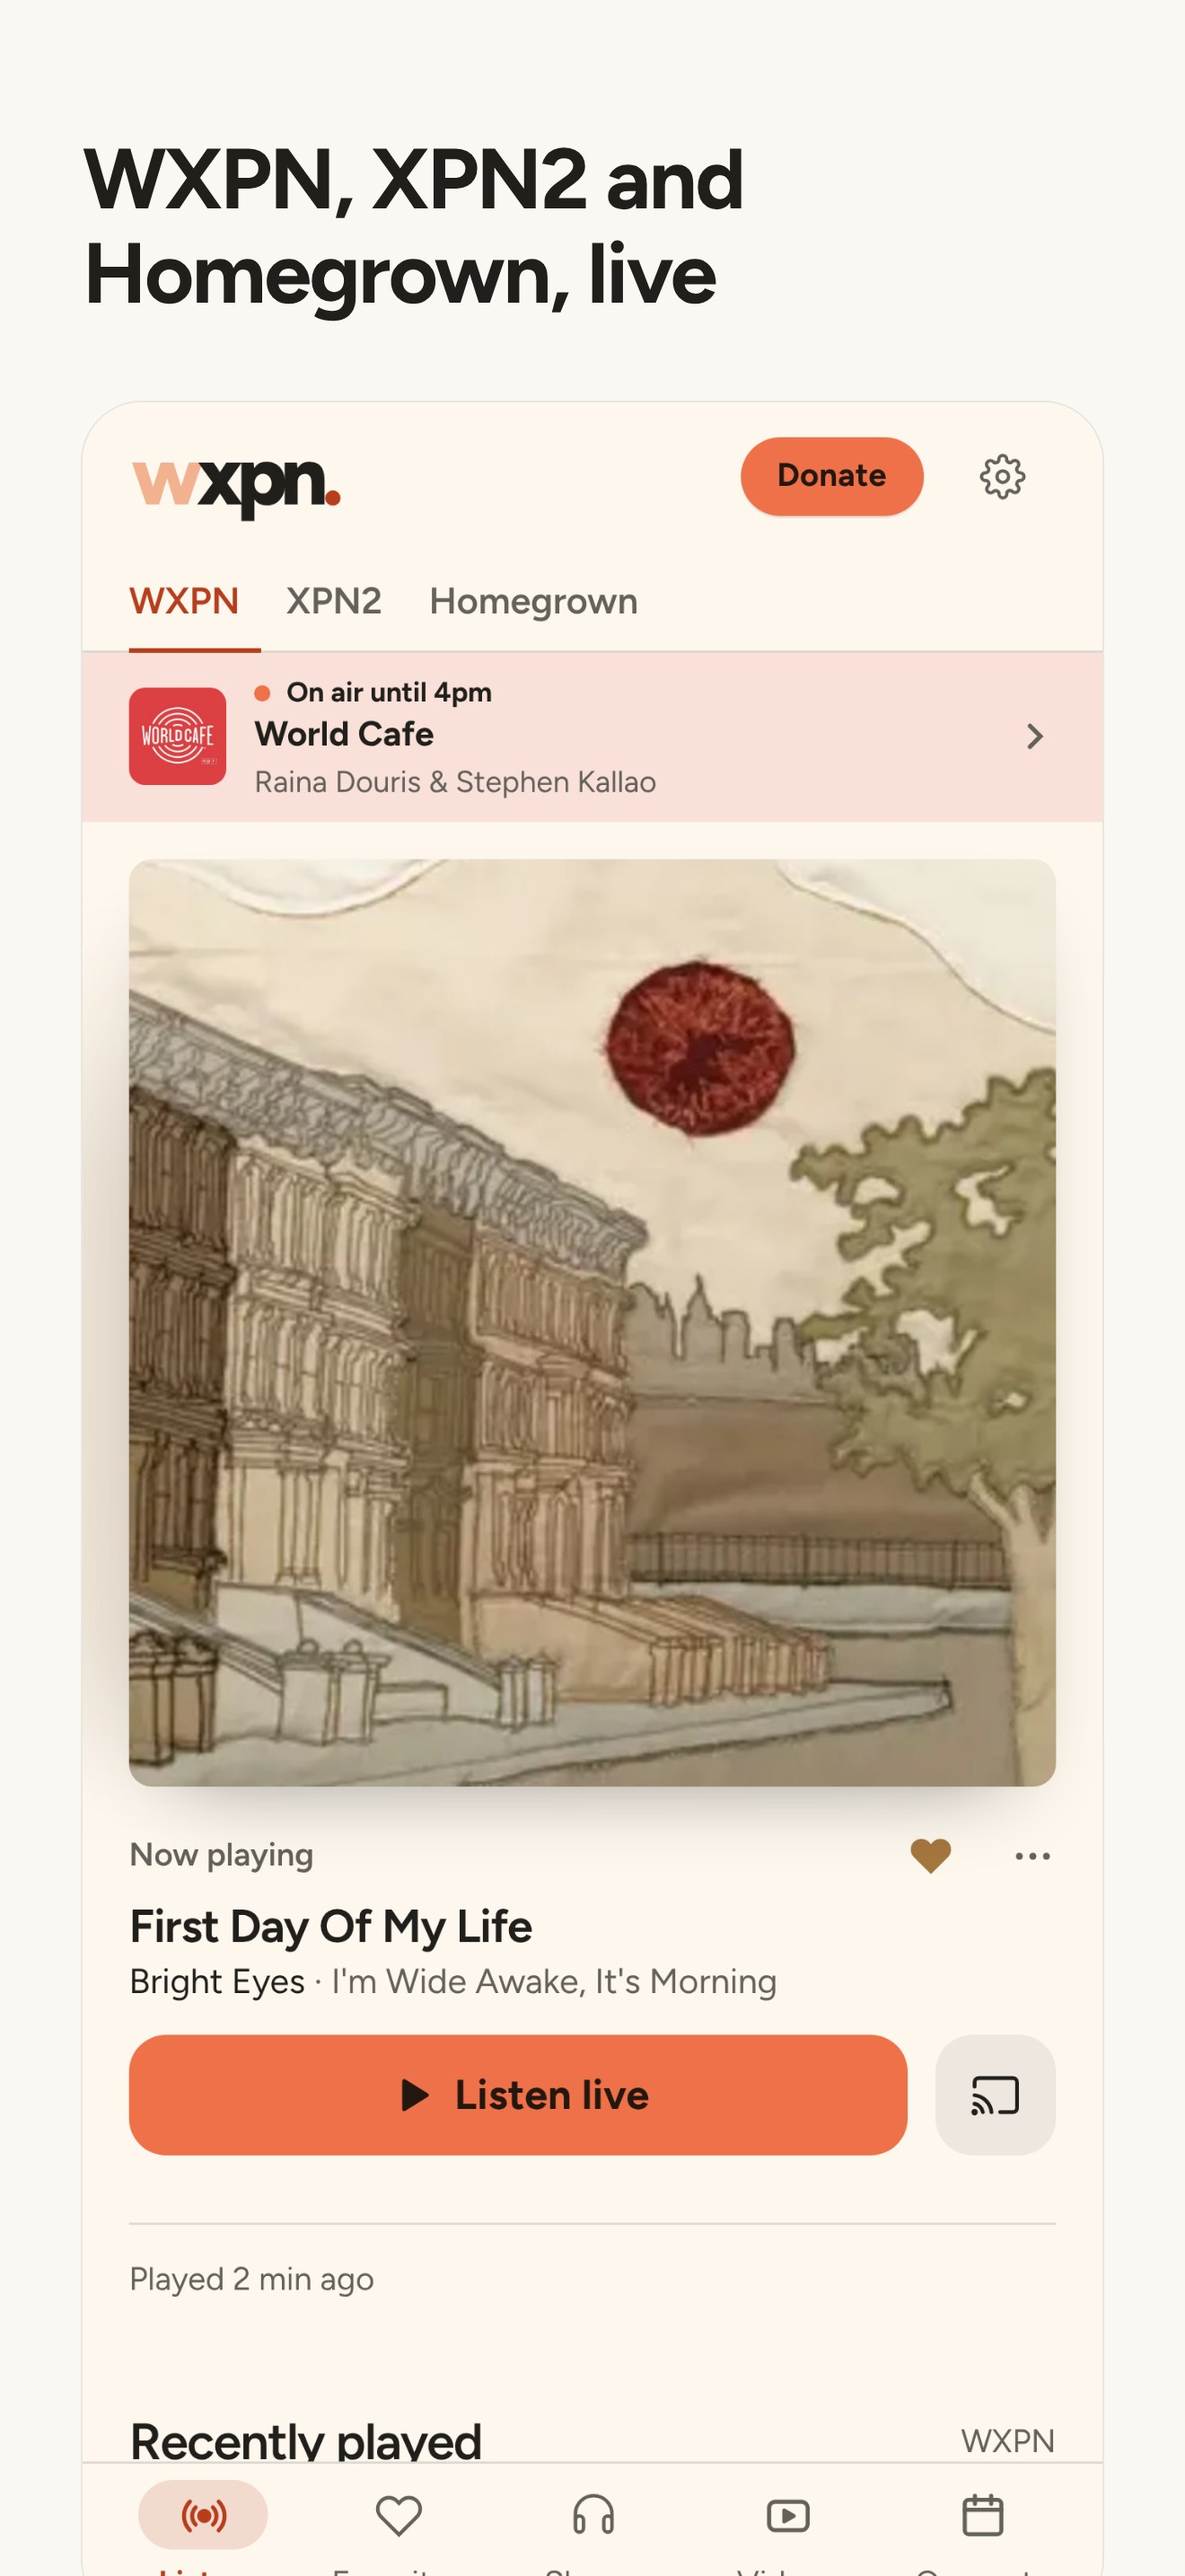
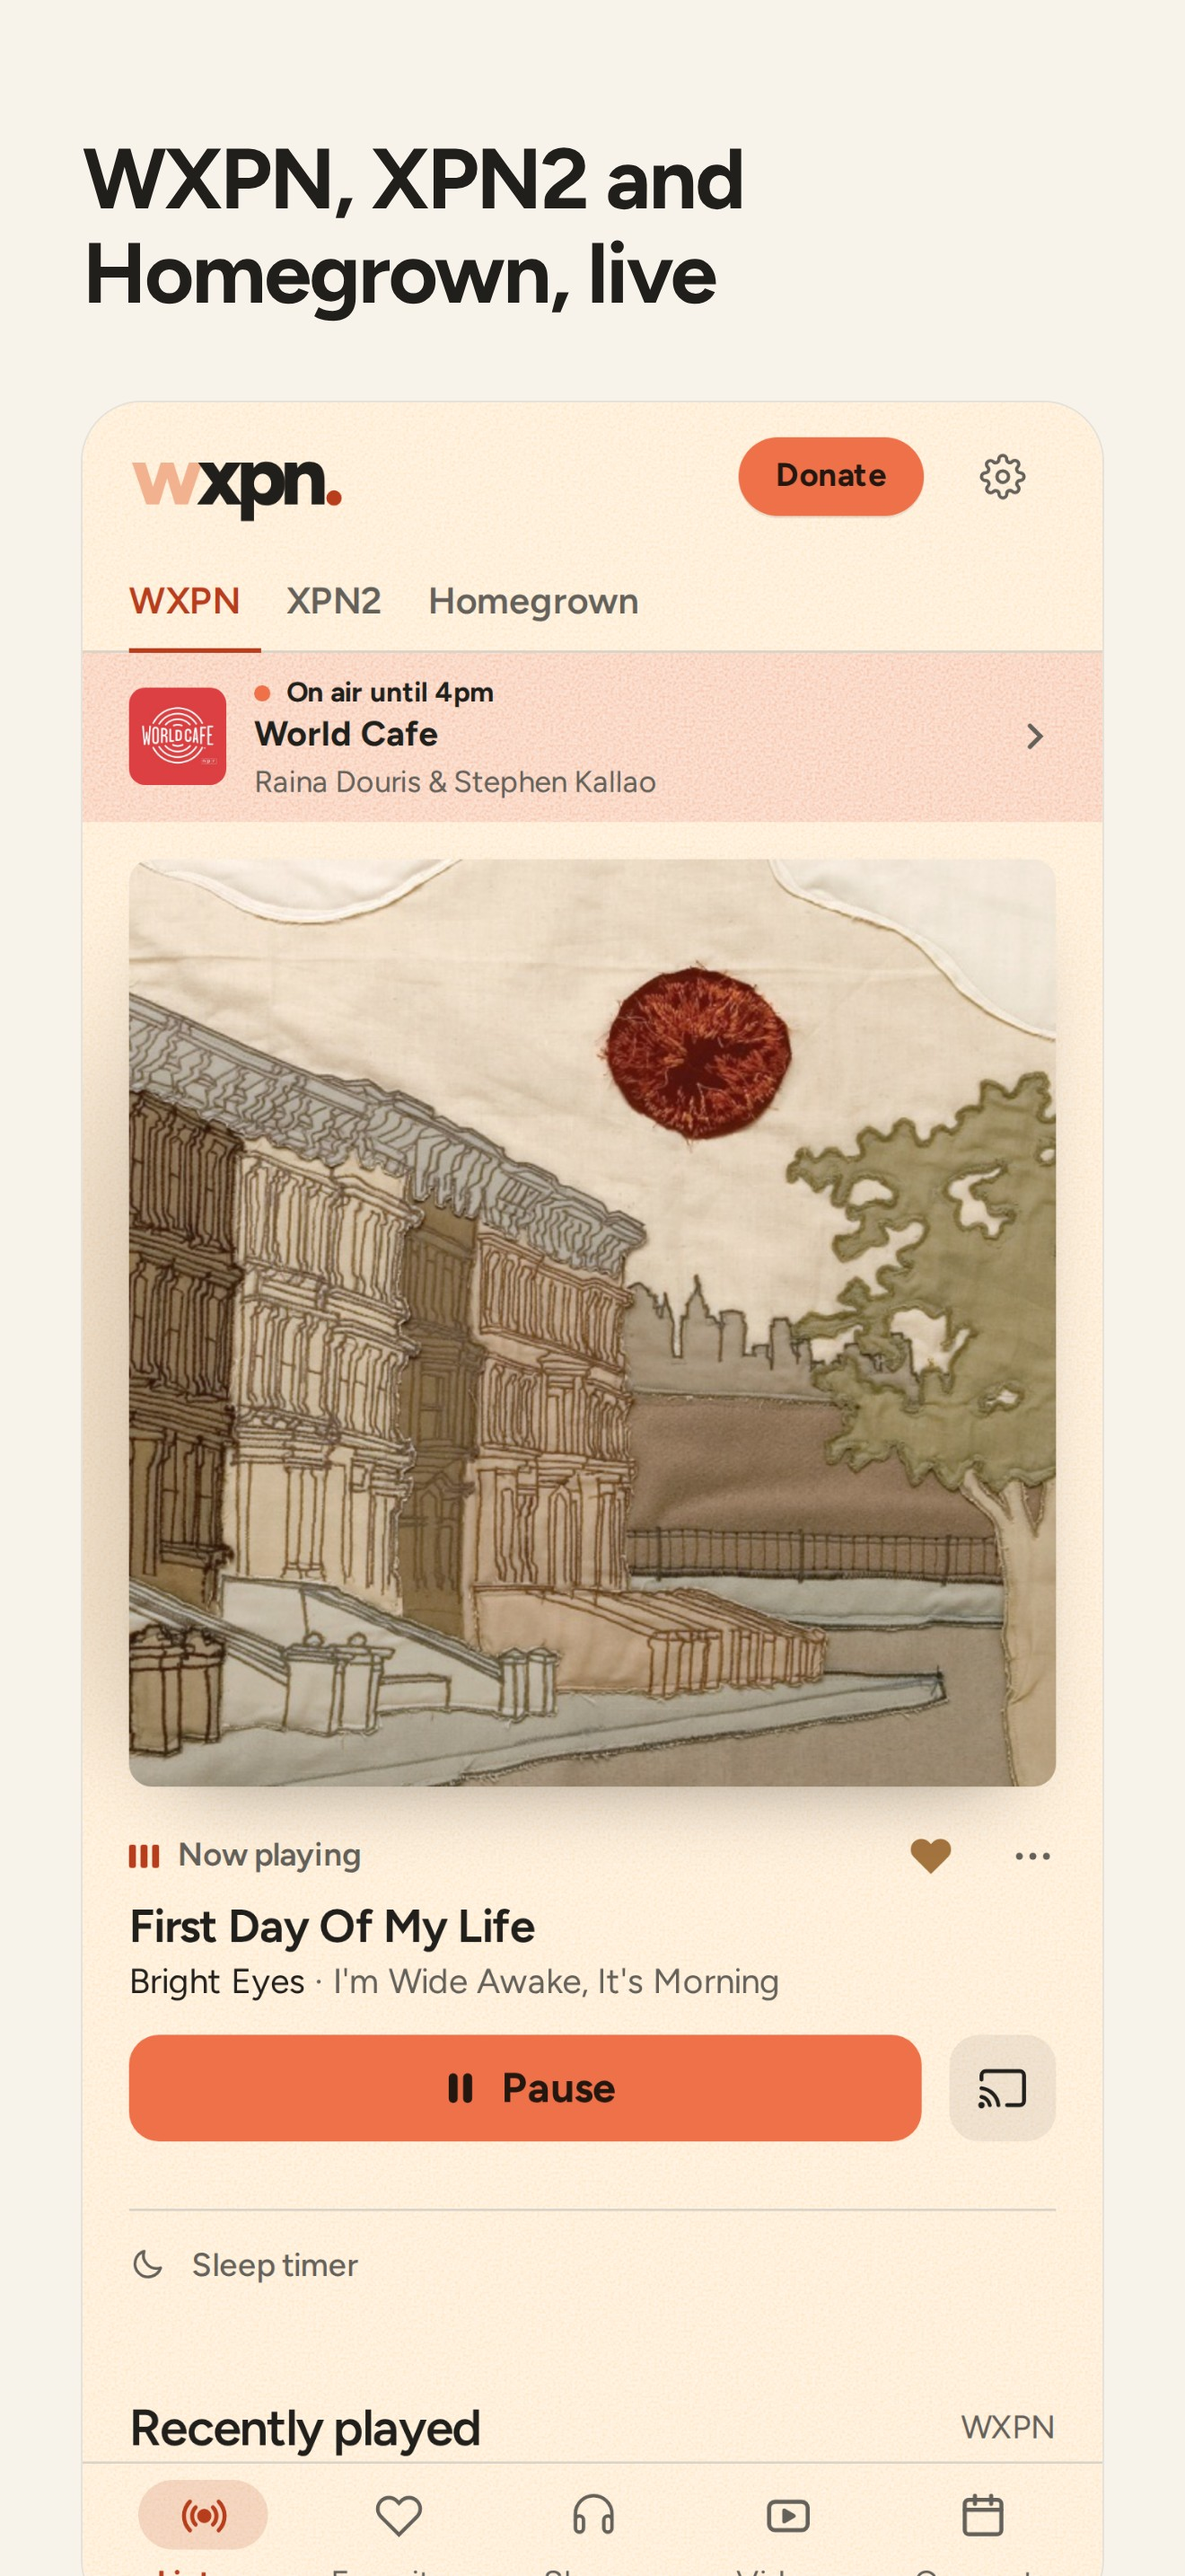
Ready for the stores: Android playback and Back, privacy answers, new shots
- Android: declare FOREGROUND_SERVICE_MEDIA_PLAYBACK. The media session's
  service starts as media playback, which from Android 14 needs it, or the
  service throws and the station stops in the background.
- Android: the Back button closes an open menu or sheet first, steps back
  through screens, and at the start puts the app in the background still
  playing, rather than closing it (which stopped the station).
- Store screenshots retaken with the current design (iPhone 6.9", iPad 13",
  Android), from the capture tool's new store shots.
- store/listing.md: App Privacy and Data safety answers worked out from the
  code, and the Play Console declarations (media playback foreground
  service, exact alarms).
- The capture tool's video list shot follows the single feed.

Claude-Session: https://claude.ai/code/session_01D9nLoWfAPWS4Bpww4KtqZg

diff --git a/back-button.js b/back-button.js
@@ -1,0 +1,44 @@
+// Android's Back button. Capacitor's own handling steps back through the
+// web view's history and then closes the app's activity, which takes the
+// web view, and the station playing in it, down with it. Instead, as music
+// apps do: Back closes a menu or sheet that is open, then a screen opened
+// over another (a show, a video), then steps back through screens, and at
+// the start puts the app in the background, still playing.
+import { Capacitor } from "@capacitor/core";
+import { App } from "@capacitor/app";
+
+// What Back does now. Pure, so it can be tested.
+export function backAction({ popoverOpen, dialogOpen, canGoBack }) {
+  if (popoverOpen) return "close-menu";
+  if (dialogOpen) return "close-sheet";
+  return canGoBack ? "back" : "background";
+}
+
+const openPopover = () => {
+  try {
+    return document.querySelector(":popover-open");
+  } catch {
+    return null; // a web view without popovers: none can be open
+  }
+};
+
+export function startBackButton() {
+  if (Capacitor.getPlatform() !== "android") return;
+  App.addListener("backButton", ({ canGoBack }) => {
+    const popover = openPopover();
+    const dialogs = document.querySelectorAll("dialog[open]");
+    const dialog = dialogs[dialogs.length - 1];
+    const action = backAction({
+      popoverOpen: Boolean(popover),
+      dialogOpen: Boolean(dialog),
+      canGoBack,
+    });
+    if (action === "close-menu") popover.hidePopover();
+    // As Escape would: each sheet decides how it closes (a show's goes back
+    // in history; one that can't be dismissed stays).
+    else if (action === "close-sheet")
+      dialog.dispatchEvent(new Event("cancel", { cancelable: true }));
+    else if (action === "back") window.history.back();
+    else App.minimizeApp().catch(() => {});
+  }).catch(() => {}); // a build without the native side
+}

diff --git a/main.jsx b/main.jsx
@@ -10,6 +10,7 @@ import "./global.css";
 import { reportError, startAnalytics, track } from "./analytics.js";
 import { startListeningMeter } from "./listening.js";
 import { startDeepLinks } from "./deep-links.js";
+import { startBackButton } from "./back-button.js";
 import { startReviewPrompts } from "./review.js";
 import { getSavedSongs, subscribeFavorites } from "./favorites.js";
 import { episodeControls, getEpisodeSnapshot, subscribeEpisode } from "./episode-player.js";
@@ -54,6 +55,7 @@ if (devicePreview) {
   startAnalytics();
   followTextSize();
   startDeepLinks();
+  startBackButton();
   // A store rating is asked for after a heart, once the listener knows the app.
   let songs = getSavedSongs().length;
   const reviews = startReviewPrompts({

diff --git a/store/listing.md b/store/listing.md
@@ -51,14 +51,24 @@ WXPN is a public media service of the University of Pennsylvania, supported by i
 
 **Age rating:** no objectionable content. The browser view only opens xpn.org, ticket and streaming-service pages from the app's own links; if App Review counts that as unrestricted web access, the rating becomes 17+, so answer that question carefully.
 
-**App Privacy** (with usage reporting and push on):
+**App Privacy** (App Store Connect › App Privacy). Worked out from what the code sends (`analytics.js`, `push.js`, `playlist-sync.js`, the video players); have it checked against the privacy policy before submitting.
 
-- Data used to track you: none.
-- Data not linked to you:
-  - Usage Data, Product Interaction: analytics.
-  - Diagnostics, Crash Data and Other Diagnostic Data: app functionality and analytics.
-  - Identifiers, Device ID (the push token): app functionality, only with push set up.
-- Favorites, settings and listening history stay on the phone.
+- **Do you or your partners collect data?** Yes, with usage reporting on (it is by default; Settings › Privacy turns it off).
+- **Tracking:** No. No advertising ids, no Google signals or ad personalization, no data broker, no linking with other companies' data.
+- **Data collected, none of it linked to the user's identity:**
+
+| Apple's data type                   | What it is in the app                                                                                                   | Purposes                     |
+| ----------------------------------- | ----------------------------------------------------------------------------------------------------------------------- | ---------------------------- |
+| Usage Data › Product Interaction    | Screens opened, plays, hearts, shares, notification switches (GA4 events)                                               | Analytics                    |
+| Diagnostics › Crash Data            | Uncaught errors, as an anonymous line                                                                                   | App Functionality, Analytics |
+| Diagnostics › Other Diagnostic Data | Caught errors (a screen that couldn't load)                                                                             | App Functionality, Analytics |
+| Location › Coarse Location          | Google Analytics works out a country and city from the connection's address; the app never asks for location            | Analytics                    |
+| Identifiers › Device ID             | Only once push is set up (`VITE_PUSH_REGISTER_URL`): the phone's push token, to send live video and drive notifications | App Functionality            |
+
+- **Not collected** (stays on the phone, or goes only where the listener sends it): favorites, saved episodes and places, the alarm, reminders and settings; the Spotify or Apple Music sign-in and the songs added to the listener's own playlist (sent from the phone straight to that service, at the listener's request, never to WXPN); calendar events (written by the system's own New Event sheet).
+- **Embedded players:** World Cafe and WXPN videos play in Brightcove's player (NPR's Music Video Network account), which counts plays in its own analytics; live videos play in YouTube's privacy-enhanced (nocookie) player. Those are their services, under their policies; the privacy policy should name them.
+- **Required-reason APIs:** none in the app or its plugins (Capacitor's own privacy manifest declares none), so no app privacy manifest entries are needed today. Add one if a native SDK (Crashlytics, Firebase Messaging) goes in later.
+- **Encryption:** `ITSAppUsesNonExemptEncryption` is false in Info.plist (HTTPS only), so no export compliance questions per build.
 
 ## Google Play
 
@@ -66,14 +76,23 @@ WXPN is a public media service of the University of Pennsylvania, supported by i
 
 **Full description:** as the App Store description.
 
-**Data safety:**
+**Data safety** (Play Console › App content › Data safety), from the same facts:
 
-- Collected:
-  - App activity (app interactions): analytics, not shared.
-  - App info and performance (crash logs, diagnostics): analytics, not shared.
-  - Device or other IDs (push token, with push): app functionality.
-- All of it is encrypted in transit, and none of it is required to use the app.
-- Users can't request deletion because nothing is linked to them. Turning off Settings › Privacy › Share app usage stops reporting and forgets the install's id.
+- **Does the app collect or share user data?** Collects, yes; shares, no (Google Analytics processes it for WXPN as a service provider, which Play doesn't count as sharing).
+- **Collected, optional (reporting can be turned off), not linked to an account, encrypted in transit:**
+  - App activity › App interactions: analytics.
+  - App info and performance › Crash logs, and Diagnostics: analytics, app functionality.
+  - Location › Approximate location: analytics (derived by Google Analytics from the connection's address).
+  - Device or other IDs: app functionality, only once push is set up (the FCM token).
+- **Processed only on the device** (not "collected"): favorites, settings, the alarm and reminders.
+- **Deletion:** nothing is tied to a person or an account. Turning off Settings › Privacy › Share app usage stops reporting and forgets the install's id; say so in the deletion answer, and that there are no accounts.
+
+**Other Play Console declarations:**
+
+- **Foreground service permissions:** Media playback (`FOREGROUND_SERVICE_MEDIA_PLAYBACK`), for the station and episodes playing with the screen off and the media notification. Play asks for a short video of it: start the station, lock the phone, show the notification's controls.
+- **Exact alarms:** the app uses `SCHEDULE_EXACT_ALARM` (from the notifications plugin) for the radio alarm, and asks the listener to allow it when the alarm is turned on; no Play declaration is needed for that permission (only `USE_EXACT_ALARM` needs one).
+- **Notifications:** asked for only when a listener turns on reminders, the alarm or station notifications.
+- **Ads:** no ads.
 
 **Content rating questionnaire:** reference app, no user-generated content, no ads.
 

diff --git a/docs/device-testing.md b/docs/device-testing.md
@@ -94,6 +94,7 @@ what you did, what happened, and a screen recording if you can.
 - [ ] VoiceOver / TalkBack: play, a song's heart and menu, a show's page,
       and Settings can be reached and say what they do.
 - [ ] iPad, and the phone turned sideways.
-- [ ] Android back button: steps back through screens and closes sheets,
-      then leaves the app.
+- [ ] Android back button: closes an open menu (a song's, the sleep timer)
+      or sheet first, then steps back through screens, and at the start puts
+      the app in the background with the station still playing.
 - [ ] First launch (delete and reinstall): the welcome appears once.
